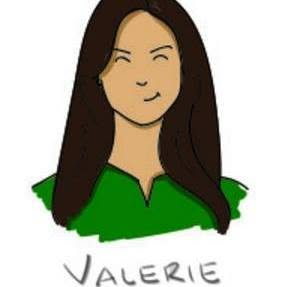
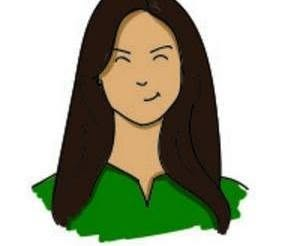
Crop the signature text off the home page portrait
Trims the 'VALERIE' hand-lettering off the bottom of the illustrated
portrait, cutting right below the shirt collar. Updates the img
width/height attributes to match the new 287x246 source.

diff --git a/index.html b/index.html
@@ -27,7 +27,7 @@
           <span class="eyebrow">Valerie Gomez de la Torre &nbsp;&middot;&nbsp; Design Leadership</span>
           <h1 class="display">I&rsquo;m a designer, a manager, a leader, <span class="nowrap">and a systems thinker.</span></h1>
         </div>
-        <img class="portrait" src="assets/portrait.jpg" alt="Portrait of Valerie Gomez de la Torre" width="420" height="420" />
+        <img class="portrait" src="assets/portrait.jpg" alt="Portrait of Valerie Gomez de la Torre" width="420" height="360" />
       </div>
     </section>
 
